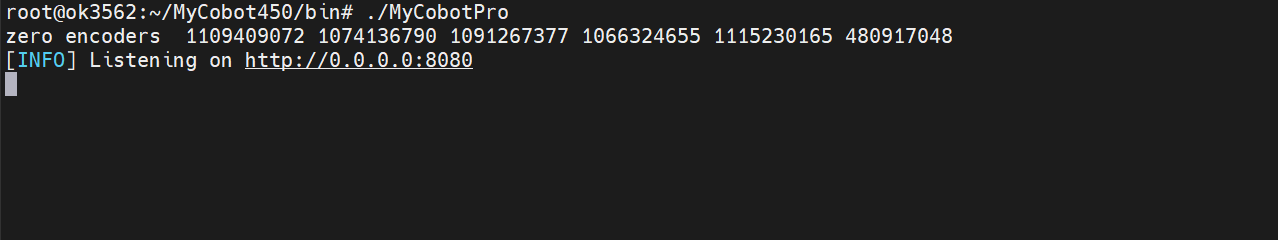
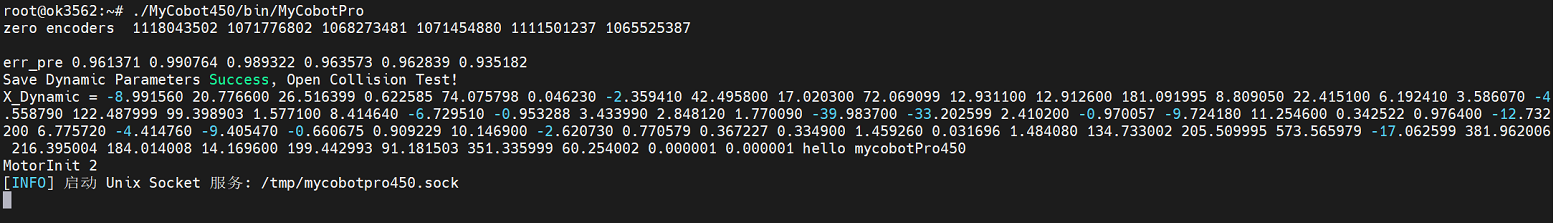
docs(cn): update.

Changed region(s): [[0.0, 0.2152, 1.0, 0.9417], [0.0, 0.0, 0.7629, 0.1883]]

diff --git a/myCobot_Pro_450_cn/3-FunctionsAndApplications/5-BasicApplication/5.3-myStudioPro/5.3.2-myBlockly.md b/myCobot_Pro_450_cn/3-FunctionsAndApplications/5-BasicApplication/5.3-myStudioPro/5.3.2-myBlockly.md
@@ -21,7 +21,7 @@
 
 | 序号      | 功能介绍                                                     |
 | ------   | ------------------------------------------------------------ |
-| 1    | 文件：可以进行 加载、保存、新建工作区 的操作；               |
+| 1    | 文件：可以进行 新建工作区、打开、保存、另存为、案例 的操作；               |
 | 2    | 快速上电：机械臂上/下电，释放/抱紧关节；                              |
 | 3    | 路点&轨迹：快速创建示教点并运行，以及录制轨迹并复现；   |
 | 4    | 快速移动：用于快速控制机械臂运动；                           |
@@ -60,8 +60,6 @@
 <img width = "800" align = "center" src="../../../resources/3-FunctionsAndApplications/5.myBlockly/blockly/case1.png" />
 
 打开工具箱一级分类`基础编程`，选择二级分类`时间`，拖动`睡眠`积木块到工作区，并设置睡眠时间为3秒。
-
-睡眠时间3秒的意思是：程序等待3秒钟后往下执行。为什么要等待3秒钟呢？因为组要确保机械臂先把第一个指令动作先完成后再执行后续其他动作。
 
 <img width = "800" align = "center" src="../../../resources/3-FunctionsAndApplications/5.myBlockly/blockly/case2.png" />
 
@@ -268,7 +266,7 @@
 此时：
 
 - 如果点击`恢复`按钮，程序将会自动往下执行；
-- 如果点击`单步执行`按钮，程序会执行下一条指令，即`mc.send_angle(1,-90,20)`；
+- 如果点击`单步执行`按钮，程序会执行`time.sleep(3)`指令，再次点击`单步执行`时,程序会执行下一条指令，即`mc.send_angle(1,-90,20)`；
 - 如果点击`停止`按钮，程序会被终止；
 
 至于接下来如何操作，由您自己决定吧！
@@ -294,11 +292,10 @@
 <img width = "800" align = "center" src="../../../resources/3-FunctionsAndApplications/5.myBlockly/blockly/dragTeach2.png" />
 
 代码解释：
-- 等待 2 秒
 - 录制轨迹：执行该积木块后，机械臂关节刹车放松，机械臂现在可以被拖动
 - 等待 10 秒（相当于录制了10 秒钟）
 - 暂停录制：机械臂关节刹车锁紧，不可被人力拖动
-- 等待 5 秒
+- 等待 10 秒
 - 播放轨迹：机械臂开始执行刚才录制的轨迹
 - 等待 10 秒（相当于播放刚才录制的 10 秒钟轨迹）
 
@@ -490,18 +487,6 @@
 
 <img width = "800" align = "center" src="../../../resources/3-FunctionsAndApplications/5.myBlockly/blockly/file-8.png" />
 
-**拷贝**
-
-点击`拷贝`按钮，将生产空间文件拷贝到测试空间。
-
-<img width = "800" align = "center" src="../../../resources/3-FunctionsAndApplications/5.myBlockly/blockly/file-9
-.png" />
-
-**恢复**
-
-点击``恢复`按钮，将回收站文件恢复到测试空间。
-
-<img width = "800" align = "center" src="../../../resources/3-FunctionsAndApplications/5.myBlockly/blockly/file-10.png" />
 
 **删除**
 
@@ -516,6 +501,12 @@
 <img width = "800" align = "center" src="../../../resources/3-FunctionsAndApplications/5.myBlockly/blockly/file-13.png" />
 
 <img width = "800" align = "center" src="../../../resources/3-FunctionsAndApplications/5.myBlockly/blockly/file-14.png" />
+
+**恢复**
+
+点击``恢复`按钮，将回收站文件恢复到测试空间。
+
+<img width = "800" align = "center" src="../../../resources/3-FunctionsAndApplications/5.myBlockly/blockly/file-10.png" />
 
 **调试**
 
@@ -552,5 +543,13 @@
 勾选需要发布的文件，然后点击`发布`按钮，会将测试空间下对应的文件发布到生产空间。
 
 <img width = "800" align = "center" src="../../../resources/3-FunctionsAndApplications/5.myBlockly/blockly/file-23.png" />
+
+**拷贝**
+
+点击`拷贝`按钮，将生产空间文件拷贝到测试空间。
+
+<img width = "800" align = "center" src="../../../resources/3-FunctionsAndApplications/5.myBlockly/blockly/file-9
+.png" />
+
 
 [← 上一章](./5.3.1-myStudioFirstUse.md) | [下一章 →](./5.3.3-quickmove.md)

diff --git a/myCobot_Pro_450_cn/3-FunctionsAndApplications/5-BasicApplication/5.3-myStudioPro/README.md b/myCobot_Pro_450_cn/3-FunctionsAndApplications/5-BasicApplication/5.3-myStudioPro/README.md
@@ -157,7 +157,7 @@
 - type：出现的错误类型
 - description：错误描述信息
 
-应用捕获到错误以后，首先会弹窗提示并且会给出解决方案，如果你不想处理错误，也可以忽略错误，忽略的同一个错误信息，如果未断开连接或者未进入到错误日志界面清除，本次应用内将不再弹窗提示。当你断开连接并且重新连接设备或者进入到错误日志界面，点击"清除"按钮以后，会重新弹窗提示并且保存到错误日志表中。
+应用捕获到错误以后，首先会弹窗提示并且会给出解决方案，如果你不想处理错误，也可以忽略错误。当你断开连接并且重新连接设备或者进入到错误日志界面，点击"清除"按钮以后，会重新弹窗提示并且保存到错误日志表中。
 
 ## 机器人状态
 

diff --git a/myCobot_Pro_450_cn/3-FunctionsAndApplications/5-BasicApplication/5.3-myStudioPro/5.3.5-setting.md b/myCobot_Pro_450_cn/3-FunctionsAndApplications/5-BasicApplication/5.3-myStudioPro/5.3.5-setting.md
@@ -94,6 +94,12 @@
 
 <img width = "800" align = "center" src="../../../resources/3-FunctionsAndApplications/5.myBlockly/other/setting-limit-save2.png" />
 
+点击`重置`按钮，将所有关节、坐标限位恢复至默认设置。点击时提示`是否恢复默认设置`。
+<img width = "800" align = "center" src="../../../resources/3-FunctionsAndApplications/5.myBlockly/other/reset-1.png" />
+
+点击`确定`时，提示`设置成功`
+<img width = "800" align = "center" src="../../../resources/3-FunctionsAndApplications/5.myBlockly/other/reset-2.png" />
+
 ## 4 检查更新
 
 点击 `检查更新` 图标按钮，将进入检查更新状态页面。
